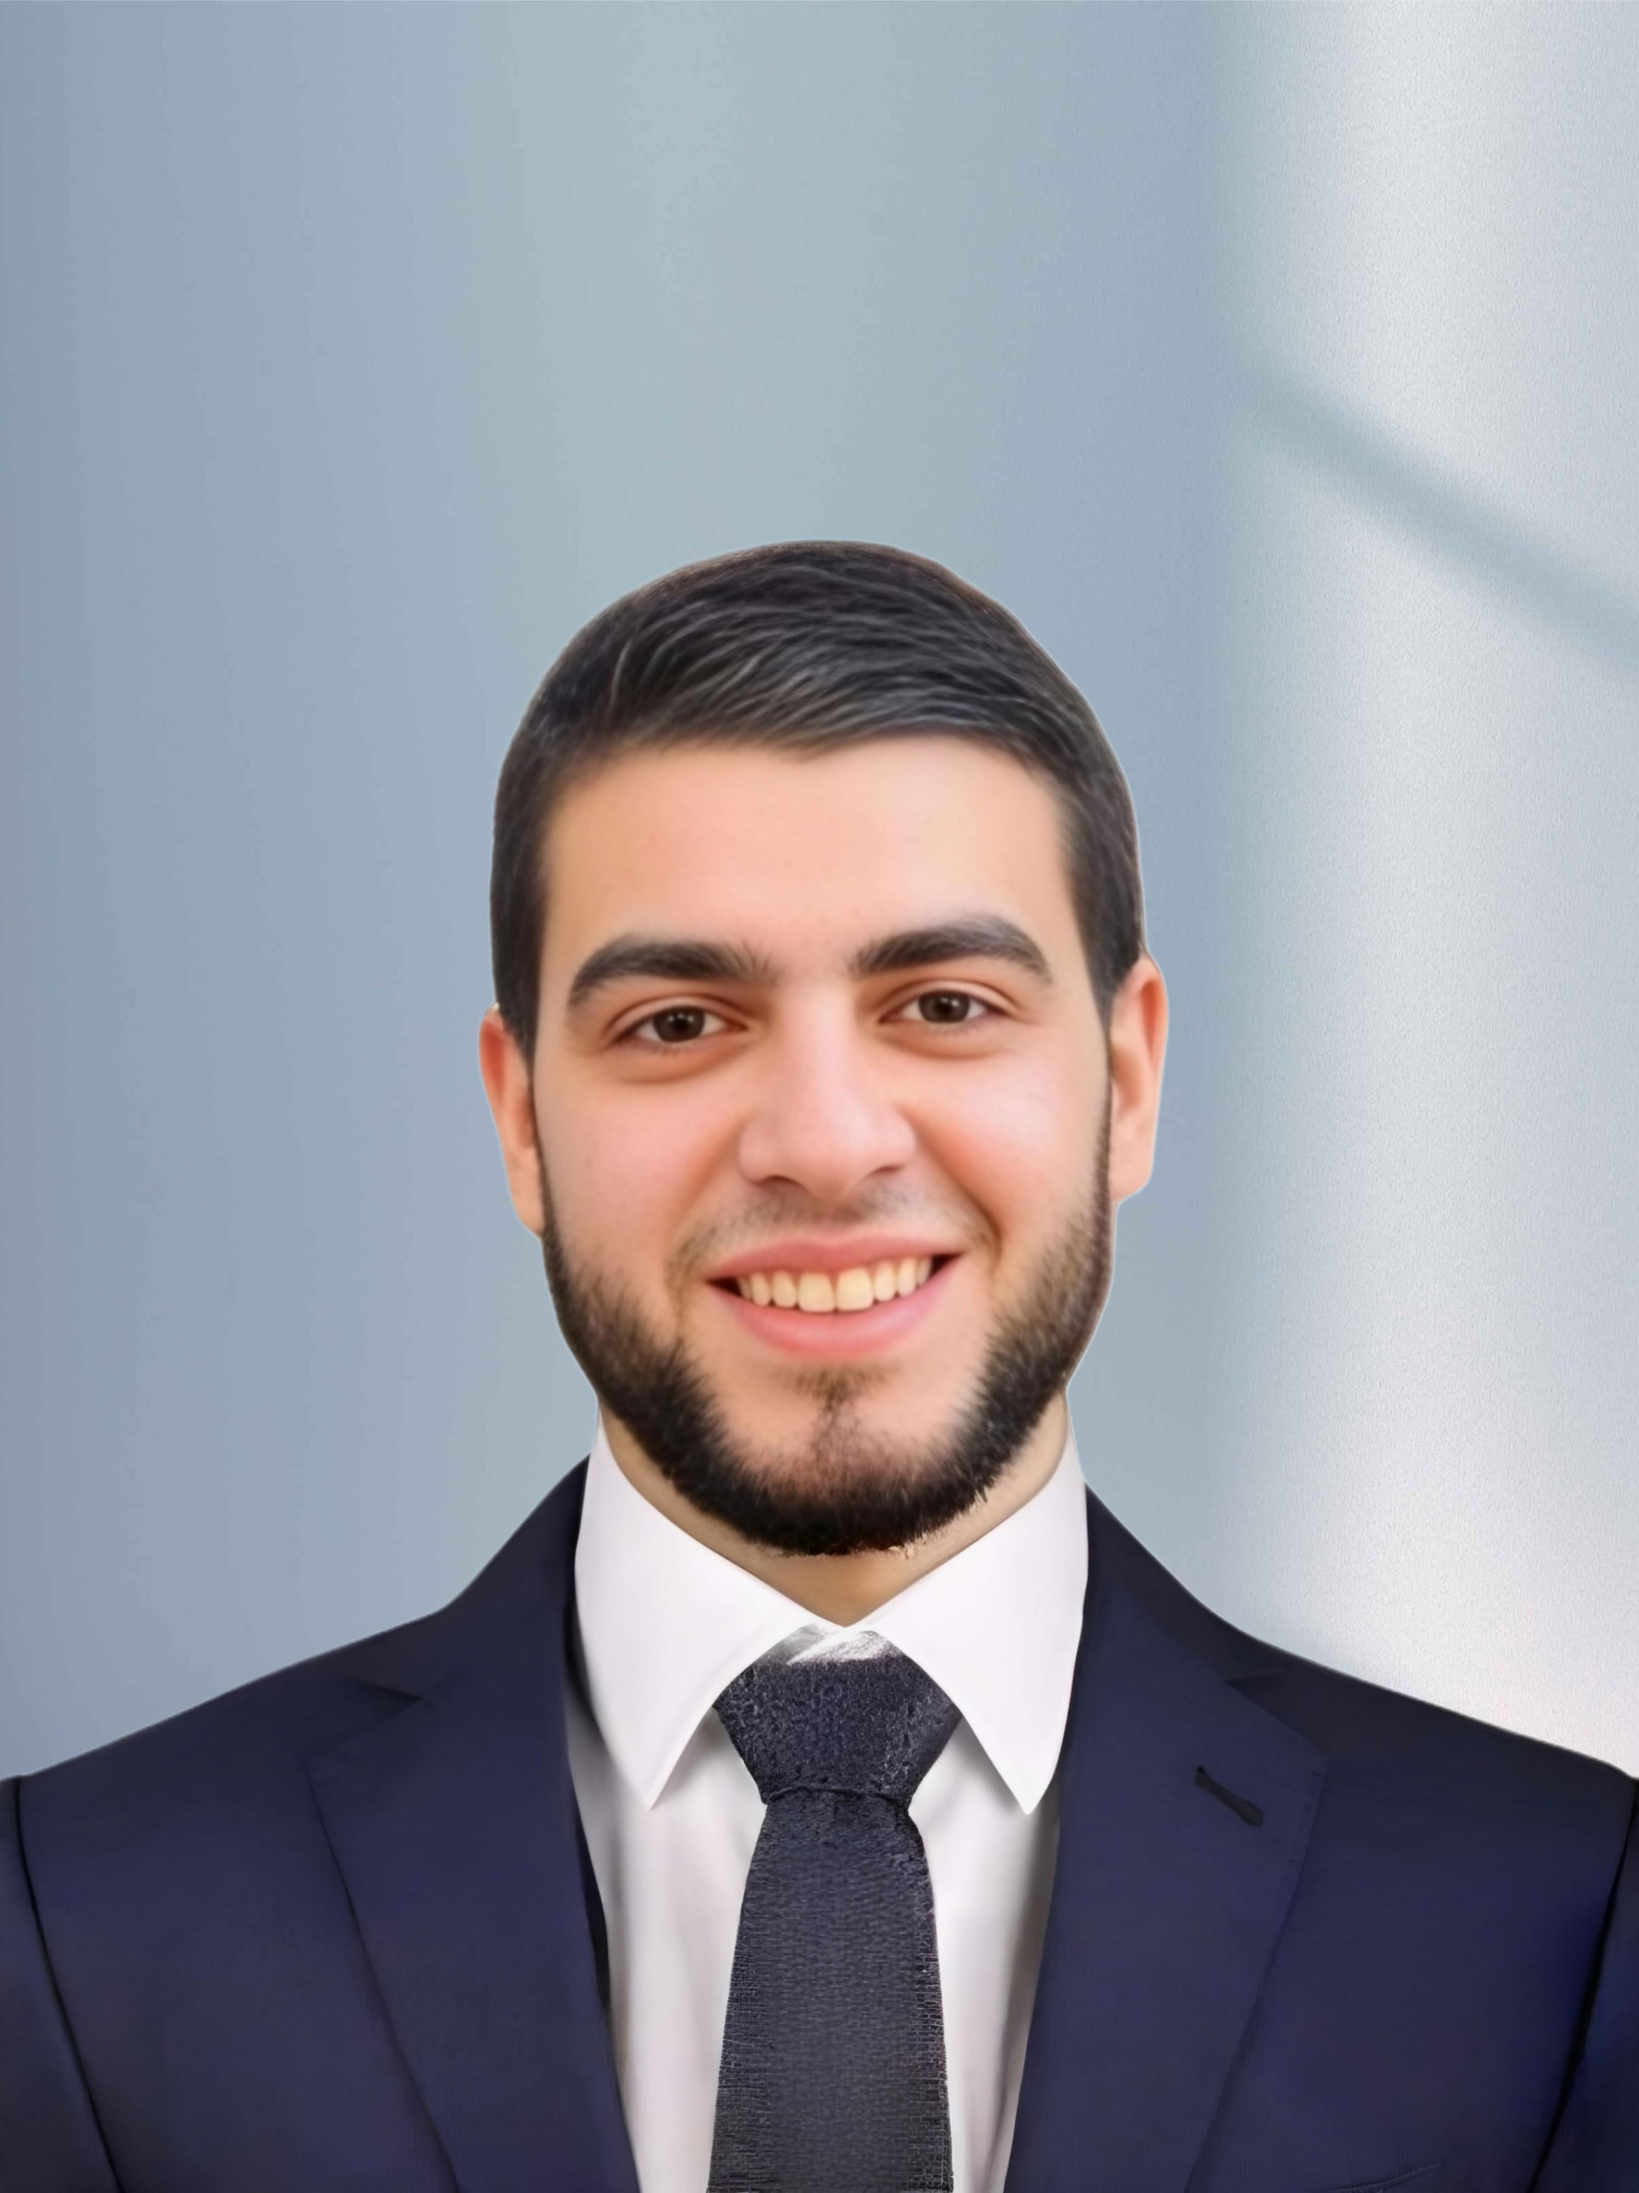
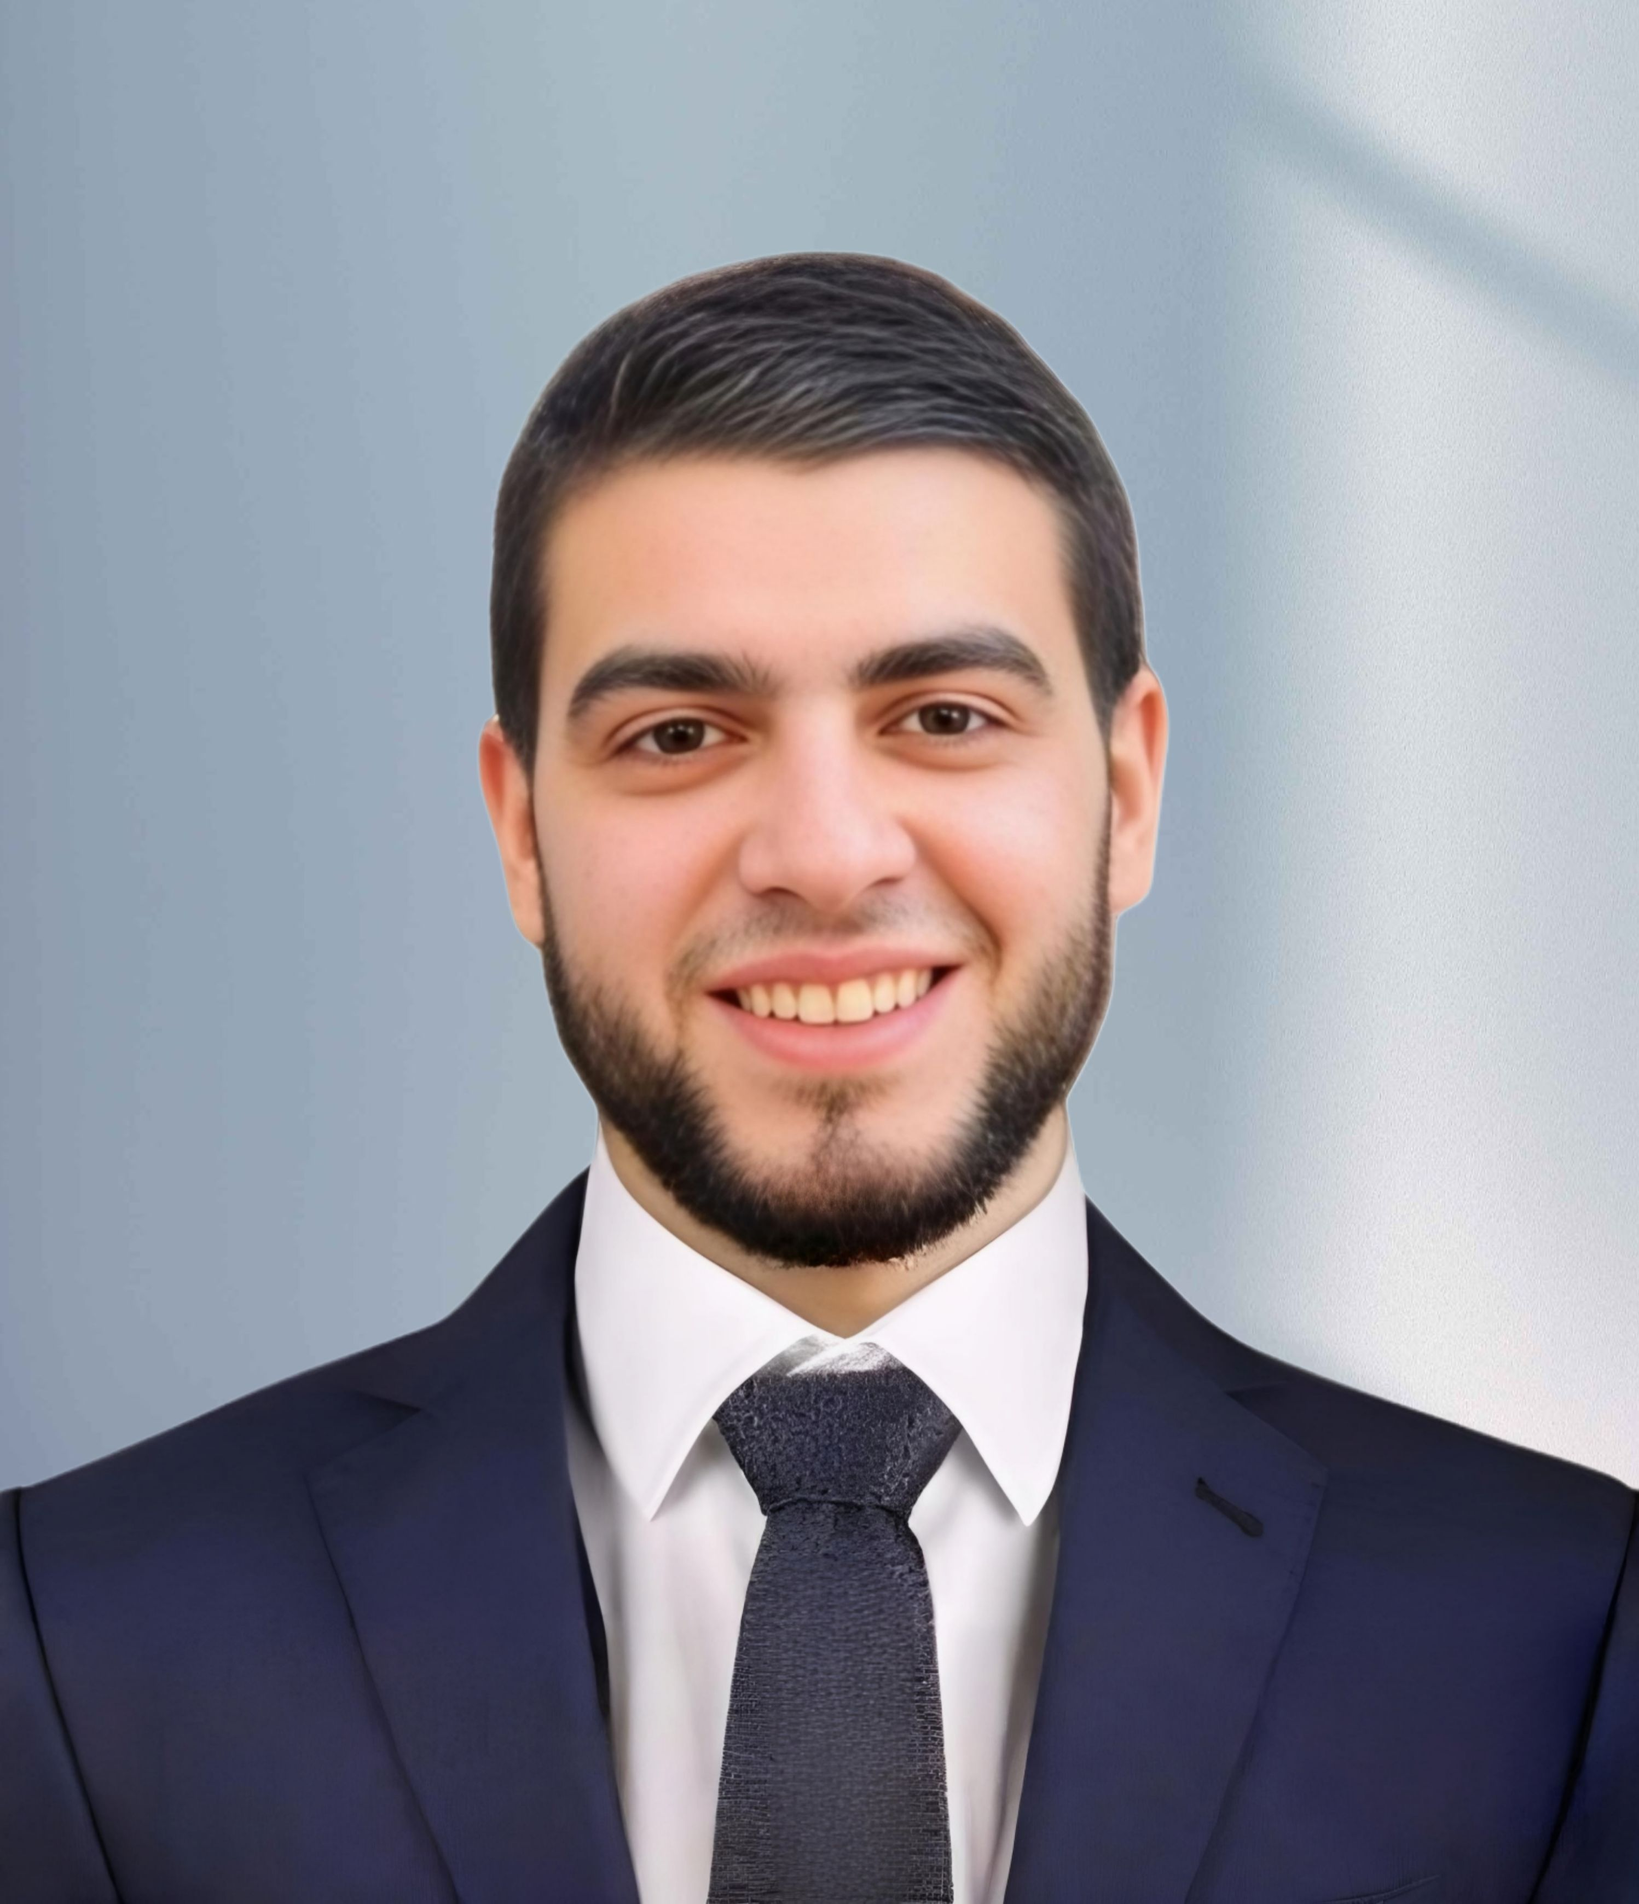
Update profile image, adjust layout and styles in About, Hero, Portfolio, and Skills sections

diff --git a/src/sections/Portfolio/components/ProjectCard.tsx b/src/sections/Portfolio/components/ProjectCard.tsx
@@ -20,7 +20,7 @@ import {
   SiTailwindcss,
 } from "react-icons/si";
 import { FaReact, FaGithub } from "react-icons/fa";
-import { FiExternalLink } from "react-icons/fi";
+import { RiLinksFill } from "react-icons/ri";
 import AppButton from "@/components/ui/AppButton";
 import { MdOutgoingMail } from "react-icons/md";
 import Skeleton from "@/components/ui/Skeleton";
@@ -73,7 +73,7 @@ const ProjectCard = ({
     <div className="group relative flex flex-col bg-card border border-[color:var(--secondary)] rounded-3xl shadow-lg overflow-hidden transition-all duration-300 hover:shadow-[0_8px_32px_0_var(--neon-pink)] hover:border-[color:var(--neon-pink)]">
       {/* Project Image */}
       <div className="relative overflow-hidden h-48 md:h-40 lg:h-44 w-full">
-        {!imgLoaded && <Skeleton className="absolute inset-0 w-full h-full" />}
+        {!imgLoaded && <Skeleton className="absolute inset-0 w-full h-full " />}
         <img
           src={image}
           alt={title}
@@ -120,7 +120,7 @@ const ProjectCard = ({
               size="sm"
               className="w-full flex items-center justify-center gap-2"
             >
-              Live <FiExternalLink size={18} />
+              Live <RiLinksFill size={18} />
             </AppButton>
           </a>
           {code && (

diff --git a/src/sections/Hero/Hero.tsx b/src/sections/Hero/Hero.tsx
@@ -9,13 +9,13 @@ export default function Hero() {
   const [text] = useTypewriter({
     words: ["Frontend Developer"],
     loop: true,
-    typeSpeed: 90,
+    typeSpeed: 120,
     deleteSpeed: 70,
   });
 
   return (
     <section id="Hero" className="scroll-mt-24">
-      <SectionMotion className="pt-24 text-white flex items-center min-h-screen scroll-mt-24">
+      <SectionMotion className=" pt-16 text-white flex justify-center items-center h-screen scroll-mt-24">
         <div className="flex flex-col-reverse md:flex-row gap-5 justify-between items-center w-full">
           <div className="text-center md:text-left space-y-4 max-w-md ">
             <Title as={"h1"} underline={false}>
@@ -56,7 +56,7 @@ export default function Hero() {
                 //src="https://img.freepik.com/premium-photo/portrait-successful-programmer-game-developer-coder-guy-uses-computer-laptop-work-game-design-hacker-boy-generative-ai-cyber-gamer_117038-7603.jpg?w=996"
                 src="/profile.jpg"
                 alt="AbdulrahmanHabiba"
-                className="w-full h-full object-cover object-center"
+                className="w-full h-full object-cover "
               />
             </div>
           </div>

diff --git a/src/sections/Skills/Skills.tsx b/src/sections/Skills/Skills.tsx
@@ -83,7 +83,7 @@ function chunkArray<T>(array: T[], size: number): T[][] {
 const Skills = () => (
   <section
     id="skills"
-    className="section-gap bg-background relative overflow-hidden scroll-mt-24"
+    className="section-gap bg-background relative scroll-mt-24"
   >
     <SectionMotion>
       <div className="mb-10">

diff --git a/src/sections/About/About.tsx b/src/sections/About/About.tsx
@@ -6,7 +6,7 @@ import SectionMotion from "@/components/ui/SectionMotion";
 const About = () => (
   <section
     id="about"
-    className="section-gap text-white space-y-12 relative scroll-mt-28"
+    className="  text-white space-y-12 relative scroll-mt-28"
   >
     <SectionMotion>
       <Title as="h2" underline>
